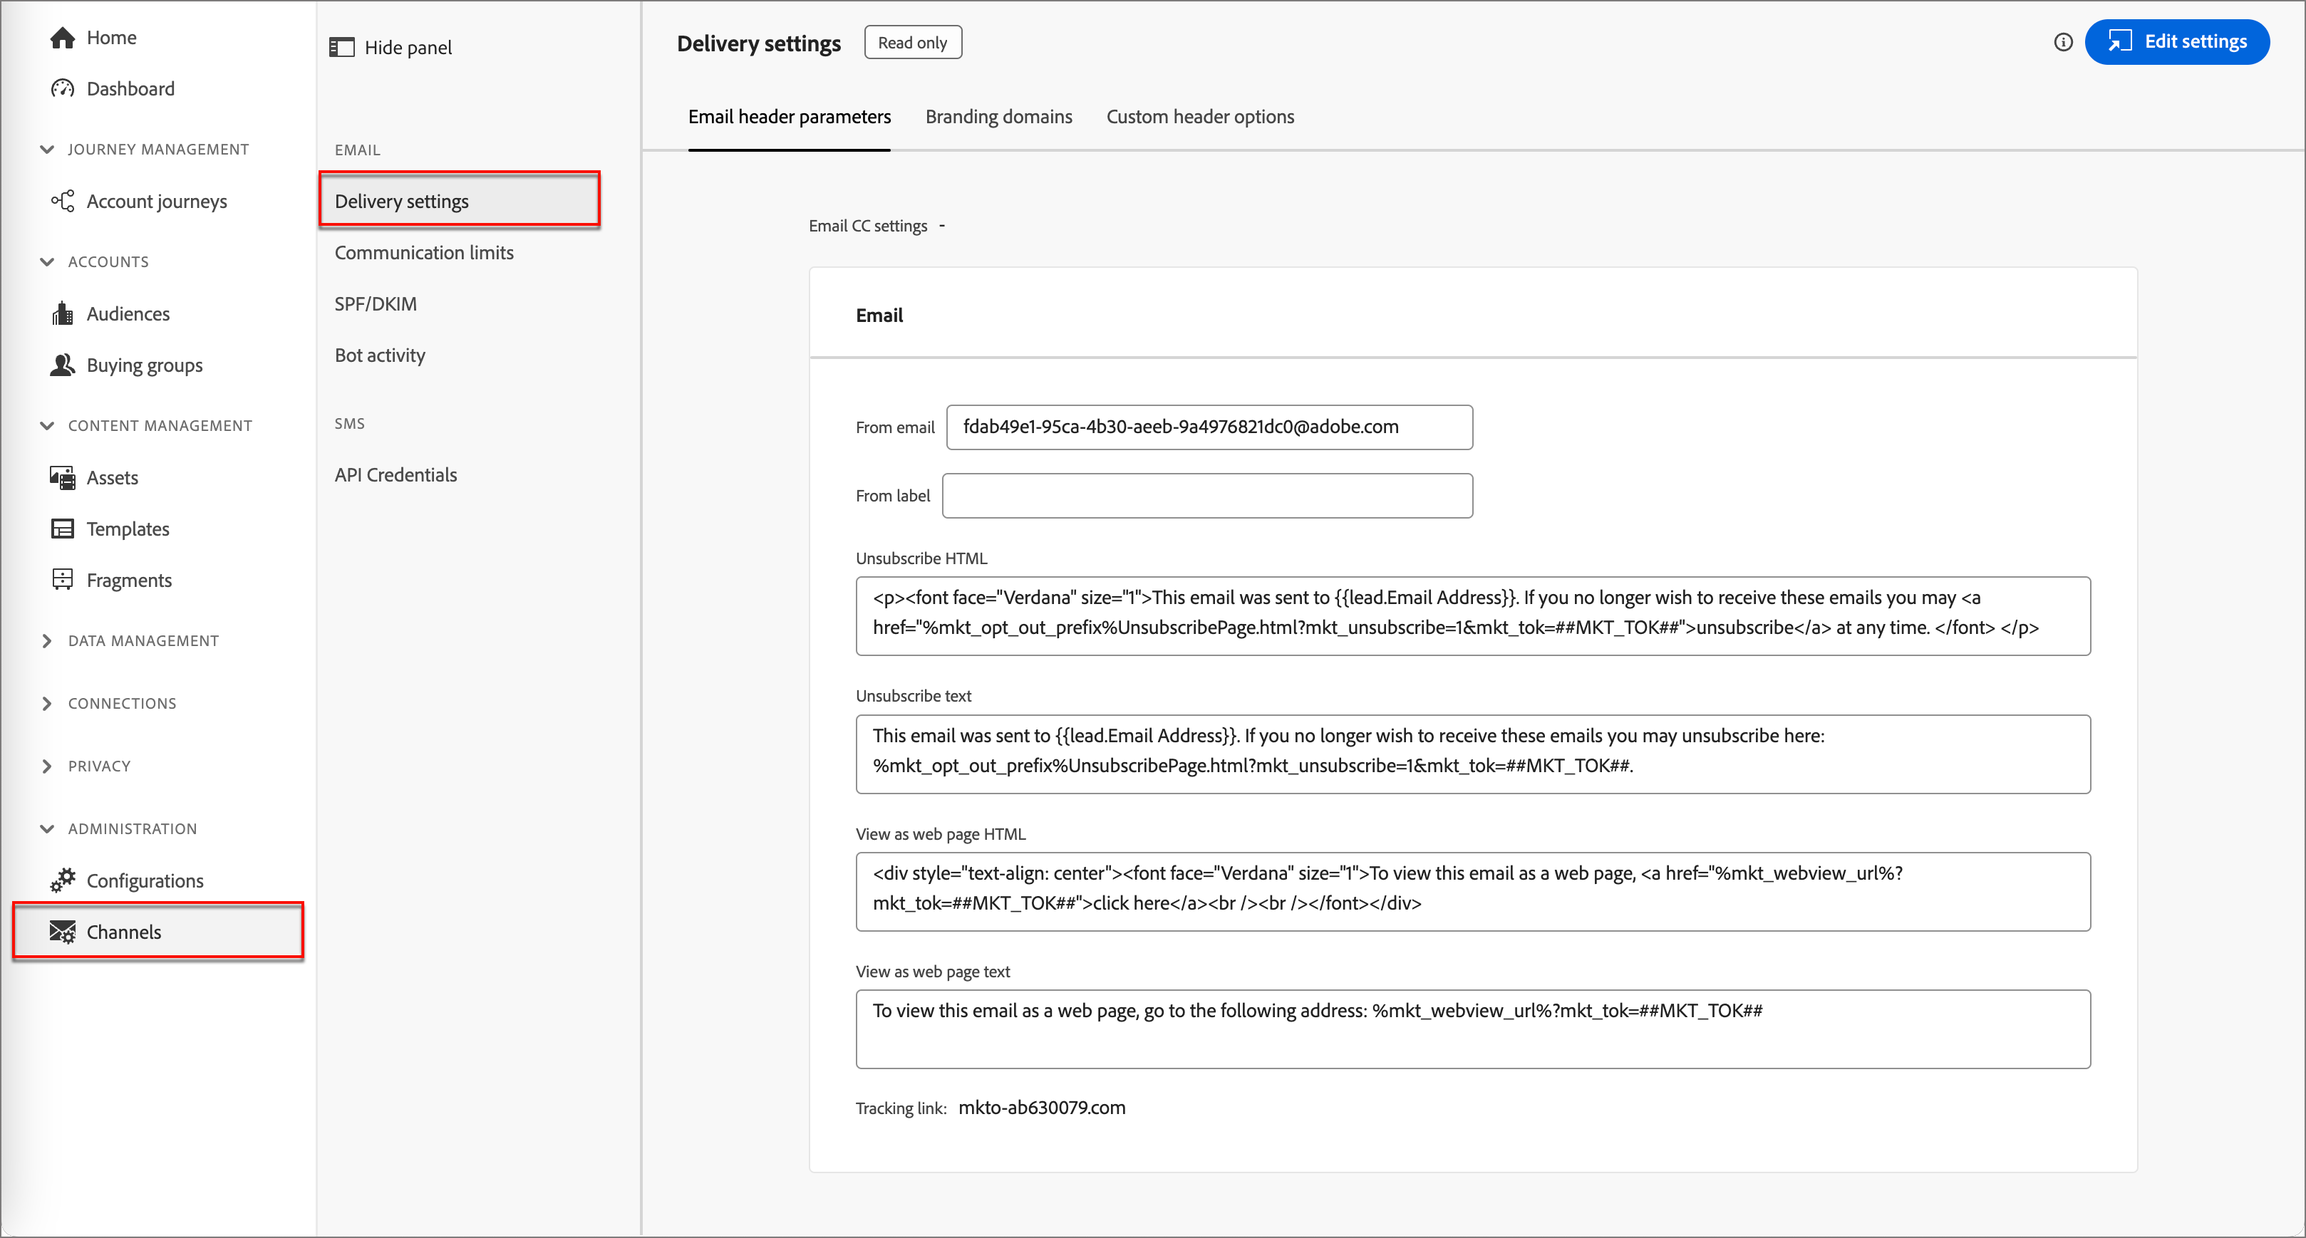
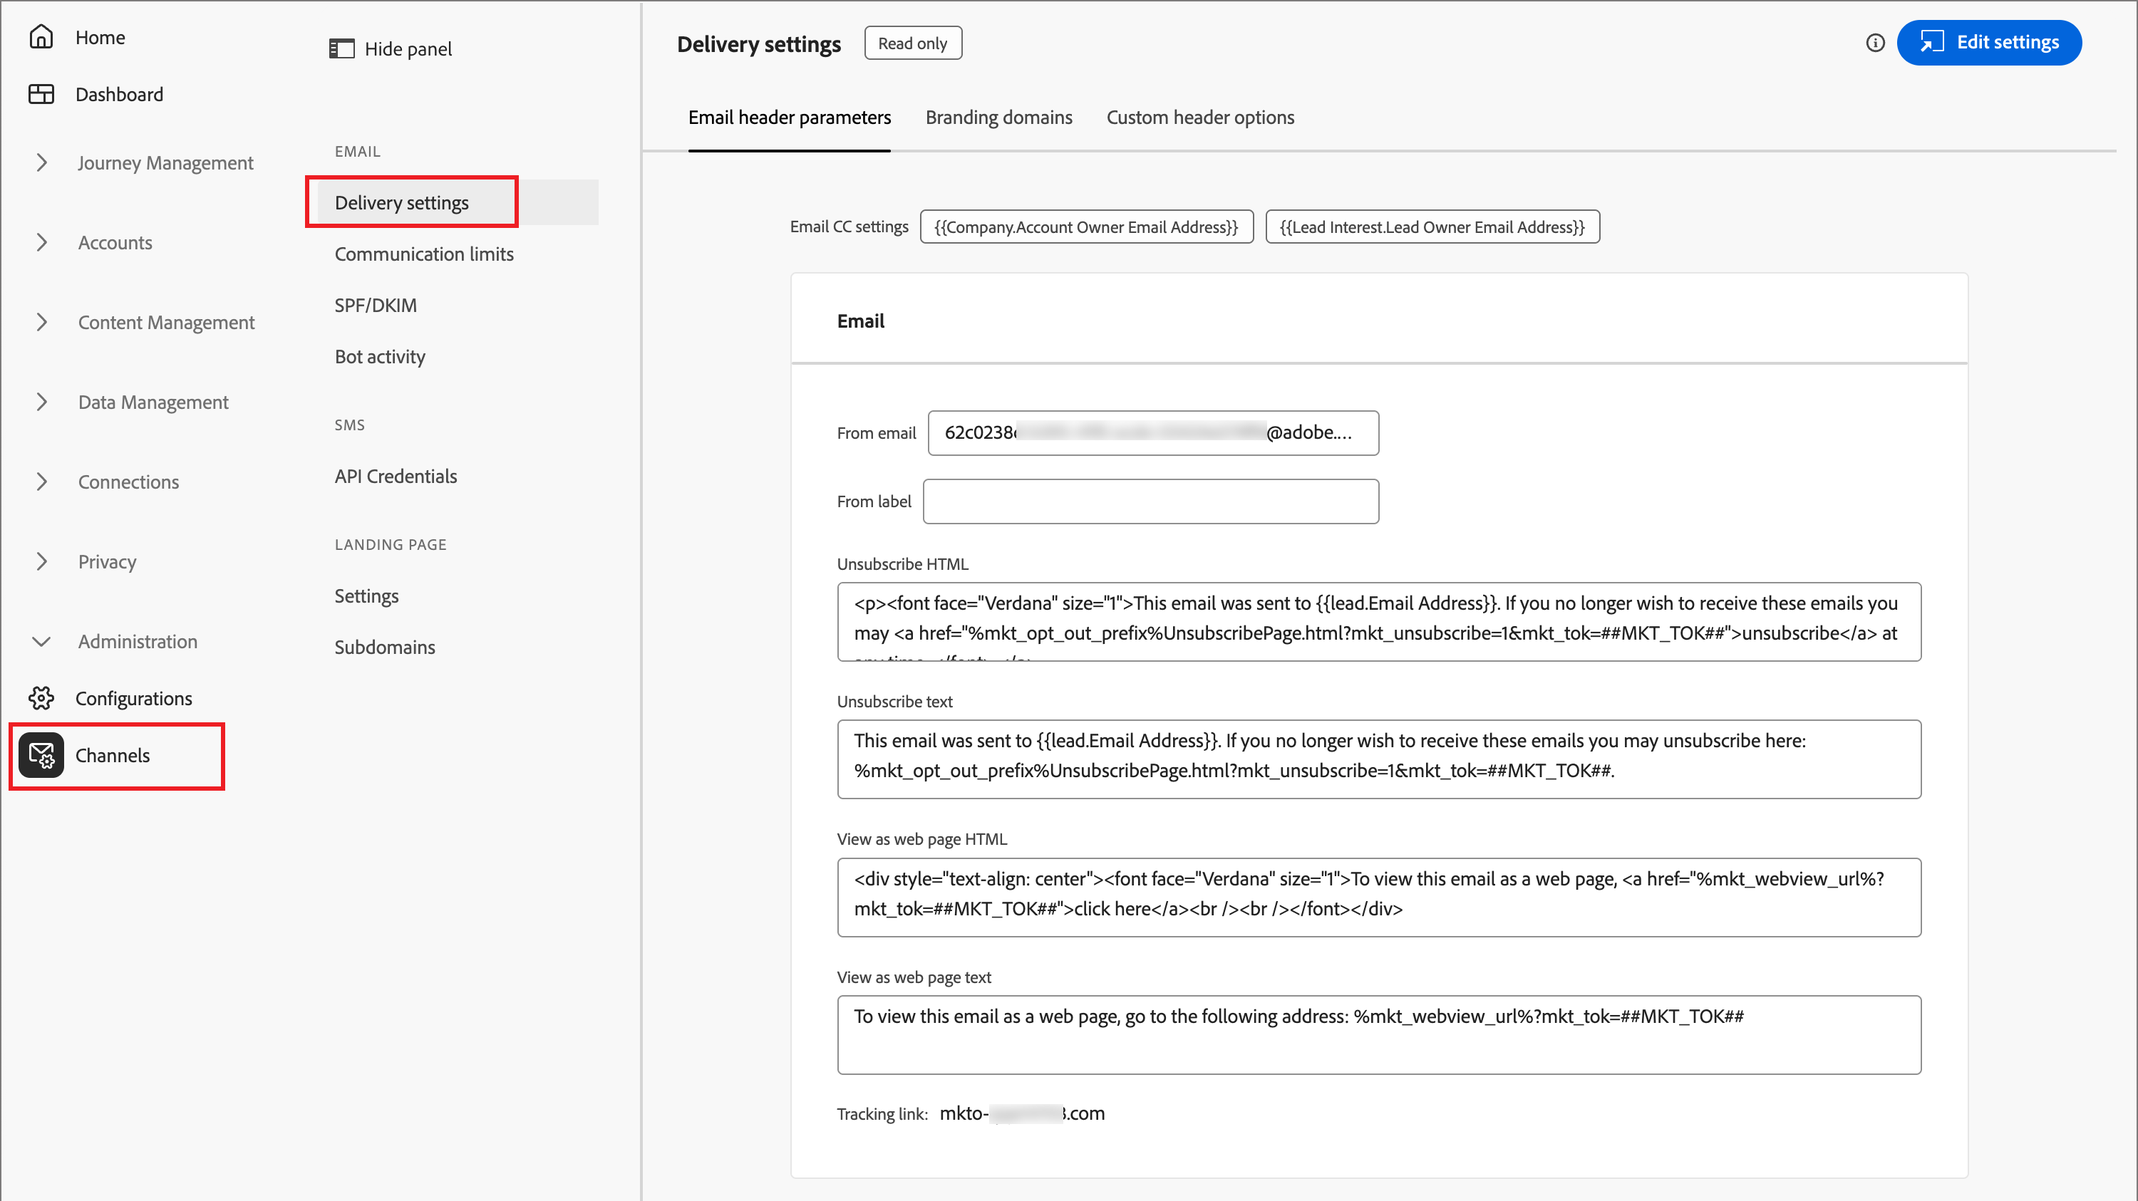
Duplicate email, add email settings details

diff --git a/help/user/content/add-email.md b/help/user/content/add-email.md
@@ -1,0 +1,122 @@
+---
+title: Add an Email to Your Journey
+description: Learn how to add an email content asset to your journey using an action node. 
+feature: Email Authoring, Content
+---
+# Add an email to your journey
+
+Use Adobe Journey Optimizer B2B Edition to send email messages to your customers through account journeys. You can choose to create, personalize, and preview messages in the email design space. Alternatively, you can choose to send an email that is already defined in the connected Marketo Engage instance.
+
+>[!NOTE]
+>
+>If you are sending an email for the first time, make sure that the email channel is configured from within Adobe Marketo Engage. To learn more, see [Protocols for tracking and email delivery](../start/email-protocols.md).
+
+## Add an email action node in a journey
+
+You can set up email deliveries in a journey when you [add a _[!UICONTROL Take an action]_ node](../journeys/action-nodes.md) and do the following:
+
+1. For the _[!UICONTROL Action on]_ target, choose **[!UICONTROL People]**.
+
+1. For the _[!UICONTROL Action on people]_, choose **[!UICONTROL Send email]**.
+
+1. For the _[!UICONTROL Email source]_, choose how you want to source the email to send.
+
+   ![Take an action - send an email](assets/journey-node-send-email.png){width="700" zoomable="yes"}
+
+   * Choose **[!UICONTROL Create new email]** to author the email natively in Journey Optimizer B2B Edition. 
+
+     This option allows you to manage the email content natively in Journey Optimizer B2B Edition. Click **[!UICONTROL Create email]** to open the _Create new email_ dialog. You can create an entirely new email content asset or duplicate an existing email asset.
+
+     +++New email (#new-email)
+     When you want to create an email using an empty canvas or an email template, use the _[!UICONTROL New email]_ option. 
+
+     1. In the dialog, choose **[!UICONTROL New email]**.
+
+     1. Enter a unique **[!UICONTROL Name]** for the email and a **[!UICONTROL Subject line]**.
+
+        ![Create new email dialog - new email](assets/create-new-email.png){width="400"}
+
+     1. Click **[!UICONTROL Create]**.
+
+       In the _[!UICONTROL Email properties]_ section of the email content page, the _[!UICONTROL From email]_ and _[!UICONTROL Reply to address]_ fields are already configured. You can enter values for the _[!UICONTROL From name]_ and _[!UICONTROL Description]_ (optional) fields.
+
+     1. Click **[!UICONTROL Edit email]** to define the email [settings](#define-the-email-settings) and design the [content](./email-authoring.md).
+
+     +++
+
+     +++Duplicate existing email (#duplicate-email)
+     When you want to create an email using an existing email from the current journey or from another journey, use the Duplicate existing journey option. You can make changes to the duplicated email according to your objective for the journey node.
+
+     1. In the dialog, choose **[!UICONTROL Duplicate existing email]**.
+
+     1. For **[!UICONTROL Existing email to duplicate]**, click the _Select email_ icon and select the email you want to duplicate and use for the journey node.
+
+      You can filter the list of emails by entering a text string in the search field to match the email name.
+
+      ![Select email](assets/create-new-email-duplicate-select-email.png){width="600" zoomable="yes"}
+
+      Select the checkbox for the email that you want to duplicate and click **[!UICONTROL Select]**. 
+
+     1. Enter a unique **[!UICONTROL Name]** for the email and a **[!UICONTROL Subject line]**.
+
+        ![Create new email dialog - duplciate existing email](assets/create-new-email.png){width="400"}
+
+     1. Click **[!UICONTROL Create]**.
+
+        In the _[!UICONTROL Email properties]_ section of the email content page, the _[!UICONTROL From email]_ and _[!UICONTROL Reply to address]_ fields are already configured. You can enter values for the _[!UICONTROL From name]_ and _[!UICONTROL Description]_ (optional) fields.
+
+     1. If needed, click **[!UICONTROL Edit email]** to modify the email [settings](#define-the-email-settings) and [content](./email-authoring.md).
+
+     +++
+
+   * Choose **[!UICONTROL Select email from Adobe Marketo Engage]** to use one of the pre-authored emails in Marketo Engage and send it as a part of the journey.
+
+     ![Select Marketo Engage email](./assets/email-select-marketo.png){width="500" zoomable="yes"}
+
+     With this option, the node is set and the email content does not need further definition in the journey.
+
+## Define the email settings
+
+With the **[!UICONTROL Details]** tab selected in the _Summary_ panel on the right, scroll to the bottom to view and set the email options. 
+
+![Email settings](./assets/email-summary-details-settings.png){width="600" zoomable="yes"}
+
+| Option | Description |
+| ------ | ----------- |
+| [!UICONTROL From name] | The sender name used in the email header. Enter the name of the sender as you want it to appear to the recipient. Click the _Personalize_ icon ( ![Personalize icon](../assets/do-not-localize/icon-personalize.svg) ) to use a personalization token in the field. |
+| [!UICONTROL From email] | The sender address used in the email header. The default value is populated from the [email channel delivery settings](../admin/configure-channels-emails.md#delivery-settings). Click the _Personalize_ icon ( ![Personalize icon](../assets/do-not-localize/icon-personalize.svg) ) to use a personalization token in the field. |
+| [!UICONTROL Reply-to address] | The sender address used in the email header. The default value is populated from the [email channel delivery settings](../admin/configure-channels-emails.md#delivery-settings) ([!UICONTROL From Label]). Enter the email address that you want to populate if the recipient uses the reply function (it can be different or the same as the sender address). Click the _Personalize_ icon ( ![Personalize icon](../assets/do-not-localize/icon-personalize.svg) ) to use a personalization token in the field.|
+| [!UICONTROL Subject line] | The text displayed in the subject field for the email. The default value is populated from the text that you entered in the _[!UICONTROL Create new email]_ dialog. You can change the text if needed. Click the _Personalize_ icon ( ![Personalize icon](../assets/do-not-localize/icon-personalize.svg) ) to use a personalization token in the field.<!-- Click the AI Assistant button ( ![AI Assistant icon](../../assets/do-not-localize/icon-gen-ai.svg){width="30" zoomable="no"} ) to generate the subject line based on the current email content.--> |
+| [!UICONTROL Operational email] | Select the checkbox if you want to designate the email as operational. Operational emails are excluded from opt-out/unsubscribe lists, and from communication limits. Select this option only when the recipient cannot consider the email message to be an unsolicited commercial message (SPAM).  |
+| [!UICONTROL Include view as web page] | Select the checkbox to include a link to a web page that is generated from the email message content. Email messages have more limited capabilities than web pages, so it is useful for JavaScript, extended CSS, and forms. The text used to generate the link is configured in the [email channel delivery settings](../admin/configure-channels-emails.md#delivery-settings) ([!UICONTROL View as web page HTML] and [!UICONTROL View as web page text]).  |
+| [!UICONTROL Disable open tracking] | Select the checkbox when you do not want to track email open activity. With the function disabled, email open activity counts are incremented only when a unique person opens the email. You can [manage tracking for email content links](./email-authoring.md#content-authoring---link-tracking) when you design the email body content. |
+| [!UICONTROL Preheader] | Select the checkbox to include a preheader. A preheader is the short summary text that is displayed after the subject line in some email clients. It usually provides a short summary of the email, and is typically a single sentence. Enter the summary text in the field<!-- , or click the AI Assistant button ( ![AI Assistant icon](../../assets/do-not-localize/icon-gen-ai.svg){width="30" zoomable="no"} ) to generate summary text based on the current email content -->. |
+| [!UICONTROL Fields used as CC addresses] | If available, select up to 25 Lead or Company fields that are set up in Marketo Engage using the `Email` type.  |
+
+## Check alerts
+
+As you design your email message content, alerts are displayed in the interface (top-right of the page) when key settings are missing.
+
+If you do not see this button, there are no detected issues.
+
+Two types of alerts can be detected:
+
+* **_Warnings_** that refer to recommendations and best practices, such as:
+
+   * `The opt-out link is not present in the email body`: adding an unsubscription link into your email body is a best practice.
+
+      >[!NOTE]
+      >
+      >Marketing-style email messages must include an opt-out link, which is not required for transactional messages. 
+
+   * `Text version of HTML is empty`: do not forget to define a text version of your email body, which is used when HTML content cannot be displayed.
+
+   * `Empty link is present in email body`: check that all the links in your email are correct. 
+
+   * `Email size has exceeded the limit of 100KB`: for optimal delivery, make sure that the size of your email does not exceed 100KB. 
+
+* **_Errors_** that prevent you from testing or activating the journey/campaign as long as they are not resolved, such as:
+
+   * `The subject line is missing`: email subject line is mandatory.
+
+   * `The email version of the message is empty`: this error is displayed when the email content has not been configured.

diff --git a/help/user/content/email-authoring.md b/help/user/content/email-authoring.md
@@ -1,46 +1,18 @@
 ---
-title: Email Authoring
-description: Learn how to create personalized email content that is used in an Account Journey.
+title: Email Message Authoring
+description: Learn how to create personalized email message content that is used in an account journey.
 feature: Email Authoring, Content
 exl-id: 0f4ae644-ade7-49a0-935c-7f4779c25ffb
 ---
-# Email authoring
+# Email message authoring
 
-Use Adobe Journey Optimizer B2B Edition to send email messages to your customers. You can create, personalize, and preview messages in the visual designer.
-
-## Add an email action in an account journey
-
-You can set up email deliveries in an Account Journey when you add a _[!UICONTROL Take an action]_ node and do the following:
-
-1. For the _[!UICONTROL Action on]_ target, choose **[!UICONTROL People]**.
-1. For the _[!UICONTROL Action on people]_, choose **[!UICONTROL Send email]**.
-1. For the _[!UICONTROL Email source]_, choose **[!UICONTROL Create new email]**.
-
-   Alternatively, you can also select the _[!UICONTROL Select email from Adobe Marketo Engage]_ option to use one of the pre-authored emails in Marketo Engage and send it as a part of the Account Journey.
-
-   >[!NOTE]
-   >
-   >If you are creating an email for the first time, make sure that the email channel is configured from within Adobe Marketo Engage. To learn more, see [Ensure Email Deliverability](https://experienceleague.adobe.com/en/docs/marketo/using/getting-started/initial-setup/setup-steps#ensure-email-deliverability) in the Marketo Engage documentation.
-
-   ![Take an action - send an email](assets/journey-node-send-email.png){width="700" zoomable="yes"}
-
-1. At the bottom of the _[!UICONTROL Take an action]_ panel, click **[!UICONTROL Create email]**.
-
-1. In the dialog, enter a unique **[!UICONTROL Name]** for the email and a **[!UICONTROL Subject line]**.
-
-   ![Create new email dialog](assets/create-new-email.png){width="400"}
-
-1. Click **[!UICONTROL Create]**.
-
-   In the _[!UICONTROL Email properties]_ section of the email content page, the _[!UICONTROL From email]_ and _[!UICONTROL Reply to address]_ fields are already configured. You can enter values for the _[!UICONTROL From name]_ and _[!UICONTROL Description]_ (optional) fields.
-
-## Create the email content
+After you add a new or duplicated email asset to a journey action node, you can define the content for the email message. 
 
 Click **[!UICONTROL Add email content]** at the top of the _[!UICONTROL Email]_ preview panel.
 
 ![Click Add email content ](./assets/add-email-content.png){width="700" zoomable="yes"}
 
-This action launches the Email Designer, where you can choose how you want to design your email from the following options:
+This action launches the email design tools, where you can choose how you want to design your email from the following options:
 
 * [Design your email from scratch](#design-your-email-from-scratch) using the Email Designer interface.
 
@@ -56,7 +28,7 @@ After you create and personalize the email content, you can export the content f
 >
 >Use AI Assistant in Adobe Journey Optimizer B2B Edition, powered by generative AI to elevate your content to the next level. AI Assistant can help you optimize the impact of your deliveries by generating entire emails, targeted text content, and getting AI Assistant recommendations for images that resonate with your audience. [Learn more](./ai-assistant-emails.md)
 
-### Design your email from scratch {#design-from-scratch}
+## Design your email from scratch {#design-from-scratch}
 
 >[!CONTEXTUALHELP]
 >id="ajo-b2b_structure_components_landing_page"
@@ -87,7 +59,7 @@ When your content is done, click **[!UICONTROL Simulate content]** at the top to
 
 When you are satisfied with the content, click **[!UICONTROL Save]**.
 
-### Import existing HTML content
+## Import existing HTML content
 
 {{$include /help/_includes/content-design-import.md}}
 
@@ -99,7 +71,7 @@ When you are satisfied with the content, click **[!UICONTROL Save]**.
 
 You can personalize the imported content as needed with the visual email editor tools.
 
-### Select a template
+## Select a template
 
 {{$include /help/_includes/content-design-select-template.md}}
 
@@ -159,7 +131,7 @@ Leverage the view and content validation options that are available in the visua
 
 ### More options
 
-From the _[!UICONTROL More ...]_ menu at the top of the email designer, you can take the following actions:
+From the _[!UICONTROL More ...]_ menu at the top of the email design space, you can take the following actions:
 
 ![Click More to access template actions](./assets/email-designer-more-menu.png){width="500"}
 
@@ -168,34 +140,6 @@ From the _[!UICONTROL More ...]_ menu at the top of the email designer, you can 
 * **[!UICONTROL Change your design]** - Return to the _Design your email_ page. From there, you can choose another template to restart the design process, or choose to design the content from scratch in a black canvas.\
 * **[!UICONTROL Save as content template]** - Save the email body as an email template to be reused across multiple emails or email templates. You provide a name and description for the template and save it to the list of saved email templates.
 * **[!UICONTROL Export HTML]** - Download the content in the visual canvas to your local system in HTML format packaged as a zip file.
-
-## Check alerts
-
-As you design your email message content, alerts are displayed in the interface (top-right of the page) when key settings are missing.
-
-If you do not see this button, there are no detected issues.
-
-Two types of alerts can be detected:
-
-* **_Warnings_** that refer to recommendations and best practices, such as:
-
-   * `The opt-out link is not present in the email body`: adding an unsubscription link into your email body is a best practice.
-
-      >[!NOTE]
-      >
-      >Marketing-style email messages must include an opt-out link, which is not required for transactional messages. 
-
-   * `Text version of HTML is empty`: do not forget to define a text version of your email body, which is used when HTML content cannot be displayed.
-
-   * `Empty link is present in email body`: check that all the links in your email are correct. 
-
-   * `Email size has exceeded the limit of 100KB`: for optimal delivery, make sure that the size of your email does not exceed 100KB. 
-
-* **_Errors_** that prevent you from testing or activating the journey/campaign as long as they are not resolved, such as:
-
-   * `The subject line is missing`: email subject line is mandatory.
-
-   * `The email version of the message is empty`: this error is displayed when the email content has not been configured.
 
 ## Check and test the email {#preview-test}
 

diff --git a/help/user/admin/configure-channels-emails.md b/help/user/admin/configure-channels-emails.md
@@ -1,10 +1,10 @@
 ---
-title: Email configurations
+title: Email Channel Configurations
 description: Learn how to access and review the email settings that are configured in Marketo Engage.
 feature: Setup
 exl-id: fb16b5e5-f1a5-4e59-b8c6-56985f03225a
 ---
-# Email configurations
+# Email channel configurations
 
 Adobe Journey Optimizer B2B Edition leverages the channel functions and event tracking in Marketo Engage. Administrators should ensure that the delivery and tracking configurations are in place to enable channel delivery for Marketers. For information about the protocols needed for email delivery and tracking through Marketo Engage, see [Protocols for tracking and email delivery](../start/email-protocols.md).
 

diff --git a/help/user/TOC.md b/help/user/TOC.md
@@ -30,6 +30,7 @@ user-guide-description: Learn about Adobe Journey Optimizer B2B Edition and how 
     + [Journey details](./journeys/journey-details.md)
 + Journey content {#journey-content}
     + Email channel {#email-channel}
+       + [Add an email](./content/add-email.md)
        + [Email authoring](./content/email-authoring.md)
        + [AI Assistant for email authoring](./content/ai-assistant-emails.md)
        + [Governed templates](./content/email-authoring-governance.md)
